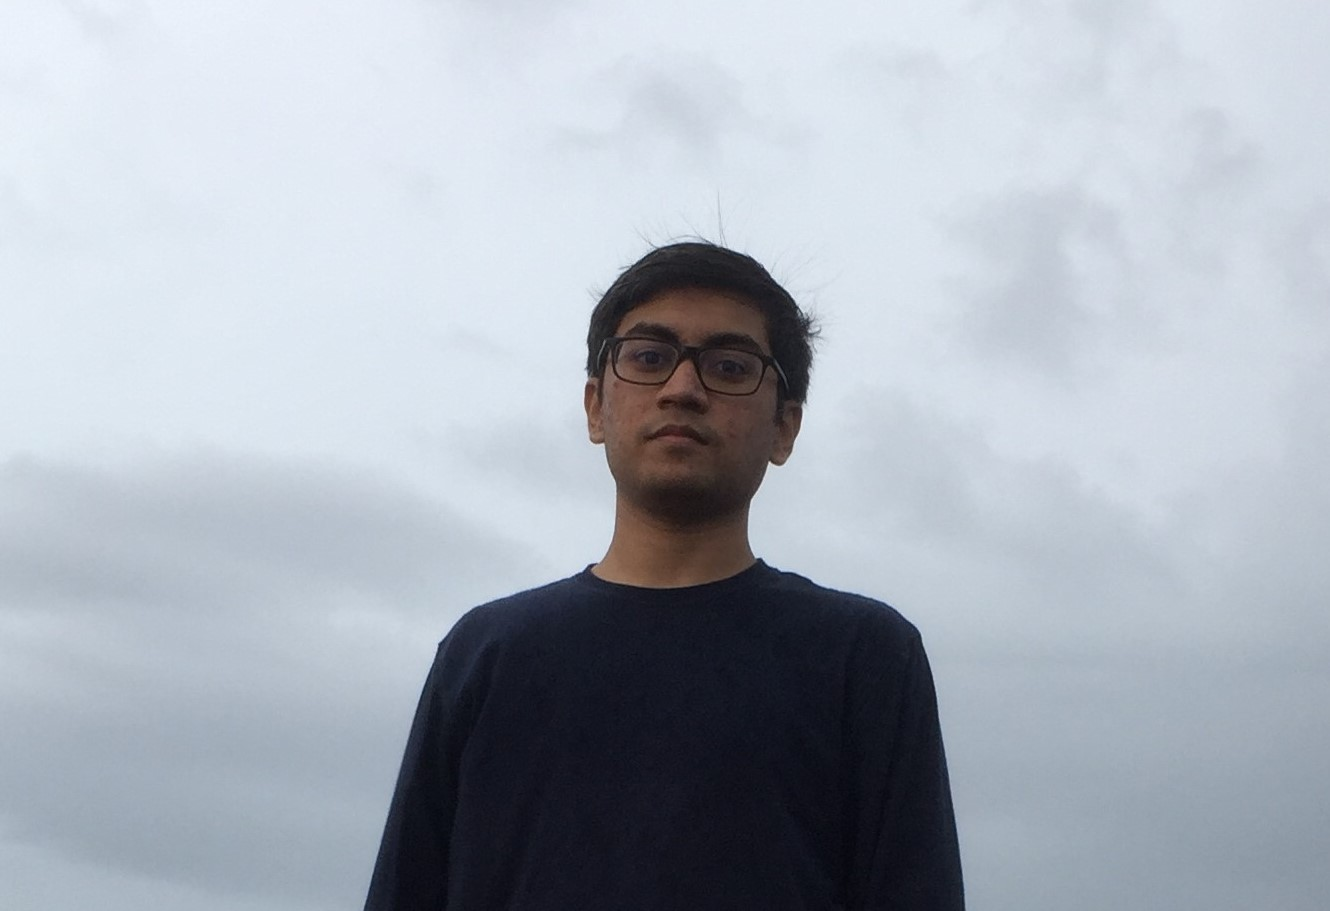
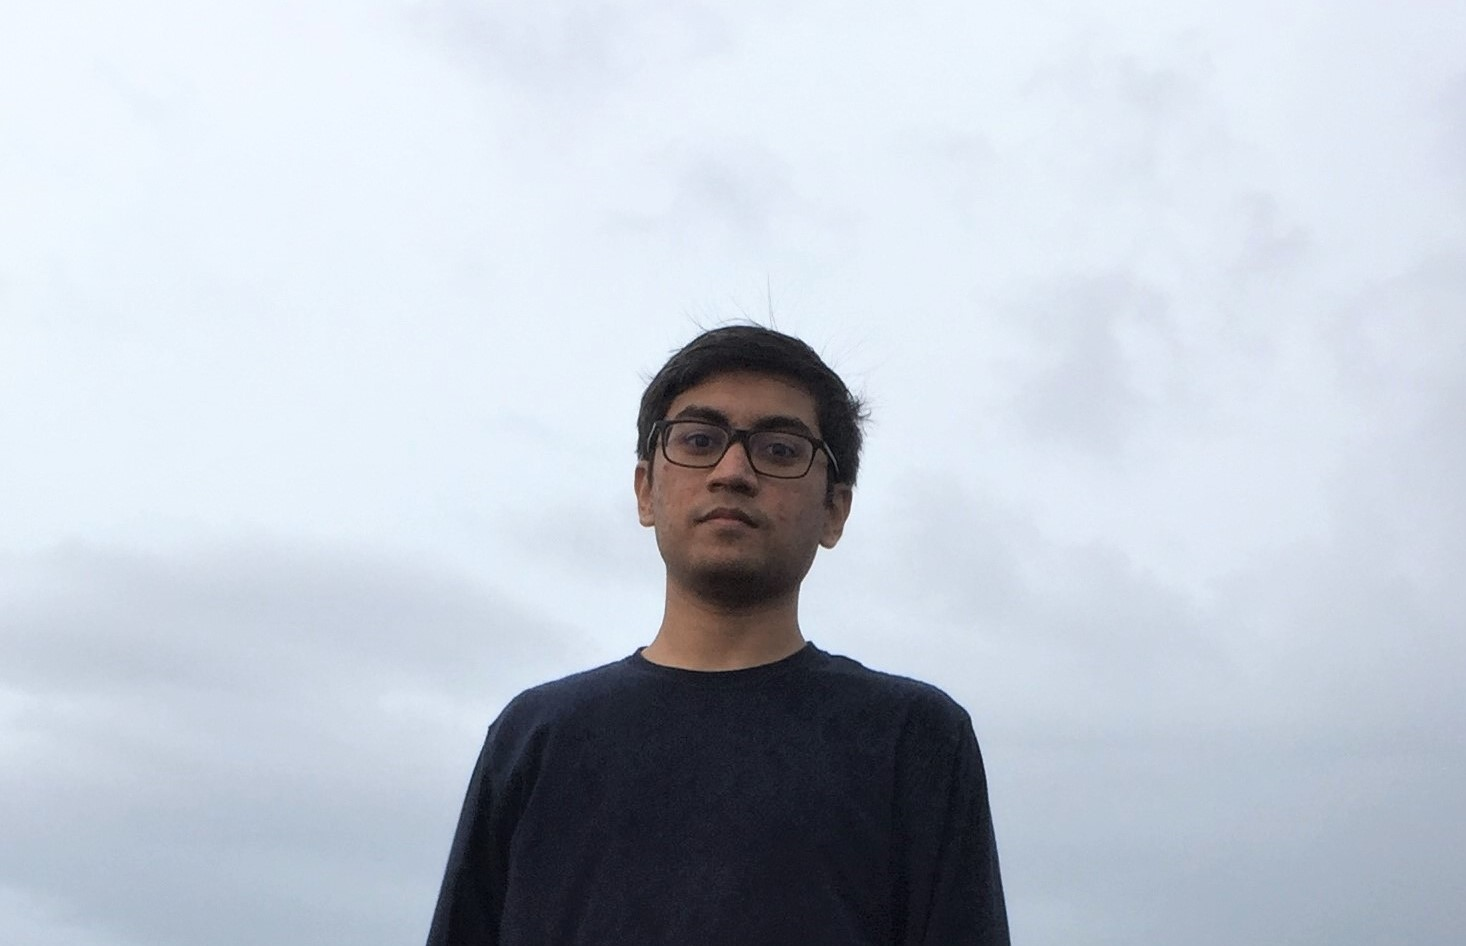
Brighter Image

diff --git a/index.html b/index.html
@@ -21,7 +21,8 @@
 		      <name>Sai Govardhan</name>
 		    </p>
 		    <p style="text-align:center">
-		      I’m a Final Year ECE student (B.Tech) at <a href="https://pes.edu/" target="_blank">PES University</a>, Bangalore, with a  VLSI specialization and a passion for Digital Design and Computer Architecture. 
+		      I'm a B.Tech ECE graduate from <a href="https://pes.edu">PES University</a>, with proven expertise in ASIC Design and FPGA Prototyping, backed by my internships (at IIITB, CIE-PESU, OrbitAID-IISC), coursework and projects. With Teaching Assistant experience for three core subjects, eight Cadence Digital Badges for the ‘Digital Design and Signoff’ track, and a VLSI Specialization, I have a robust foundation in this domain. I am passionate about building efficient Hardware Accelerators and RISC-V Processor Architectures.
+
 		    </p>
 		    <p style="text-align:center">
 		      <a href="./pdf/Sai_Govardhan_CV.pdf" target="_blank">CV</a> &nbsp;|&nbsp;
